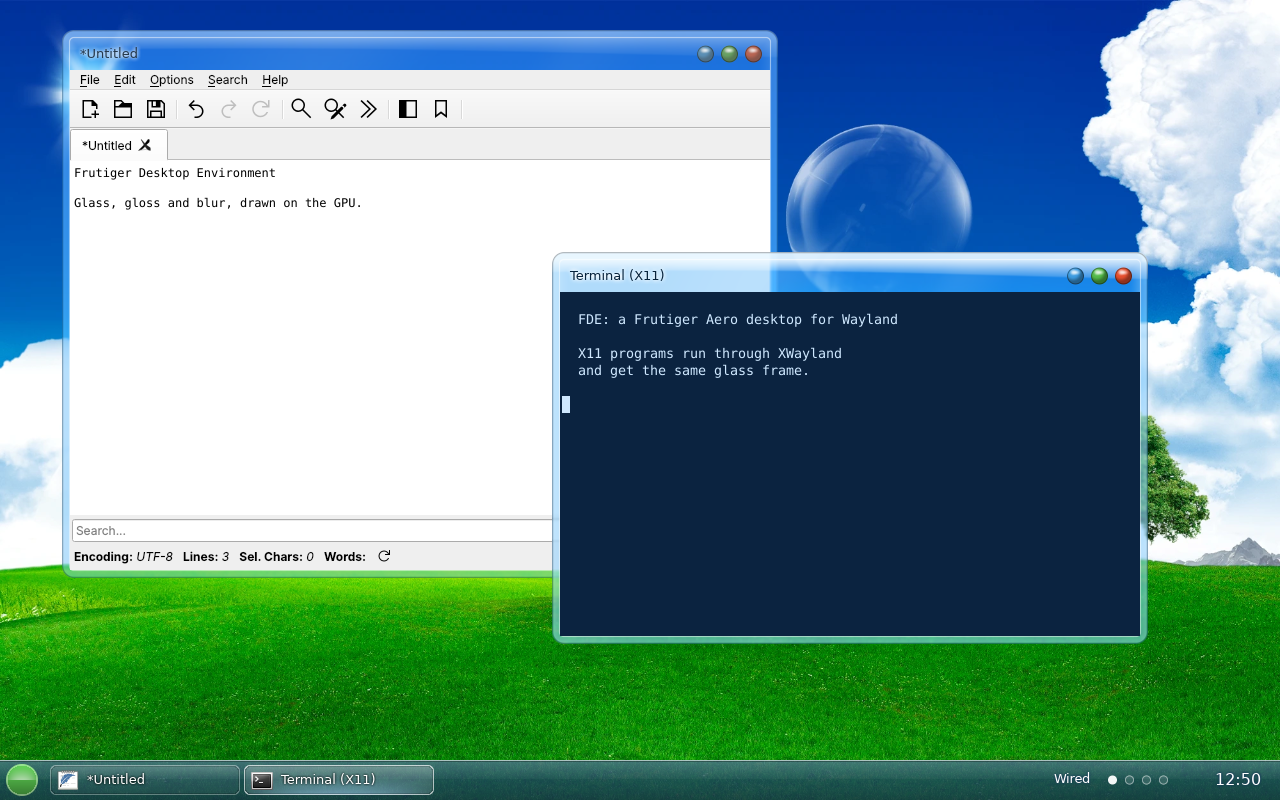
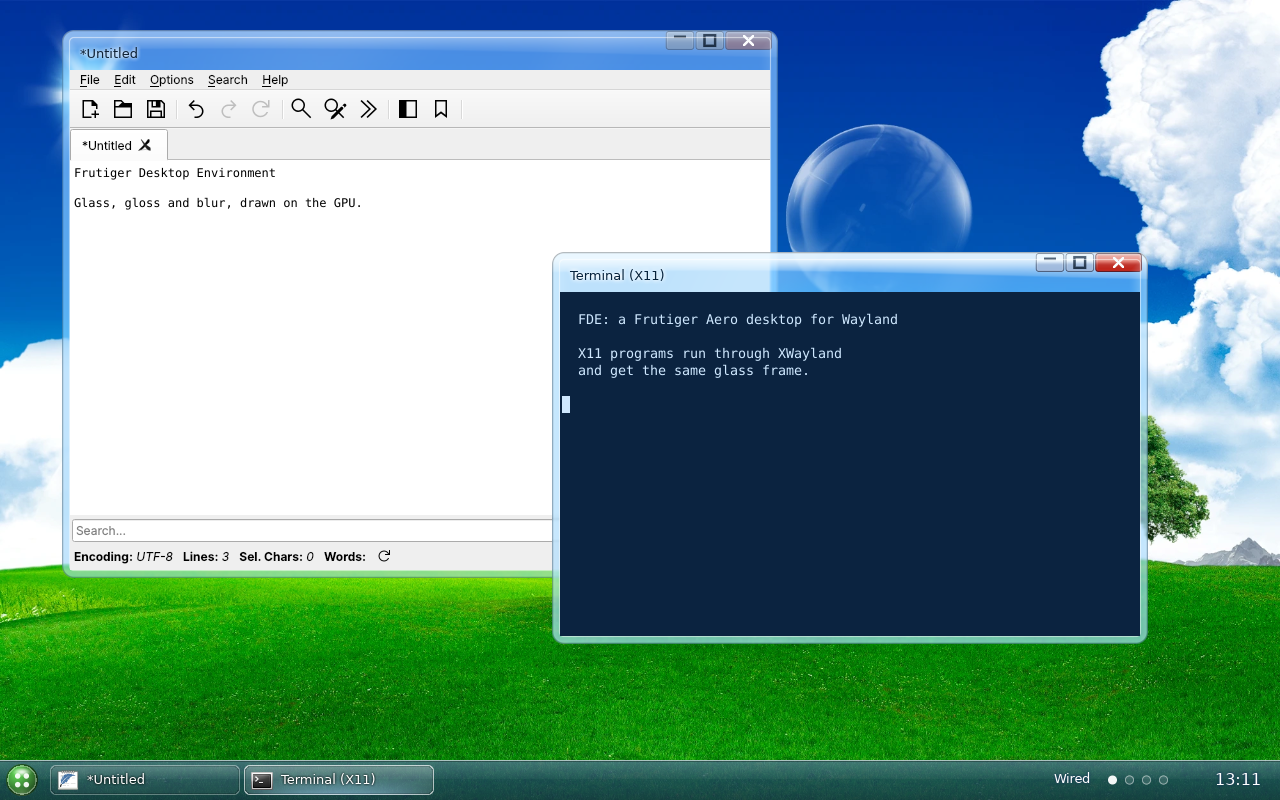
Window buttons are a Windows 7-style glass capsule instead of round orbs; lighter frame glass; a glossy start orb
- Aero theme: minimize / maximize / close as one glass pill hung from the top edge, the close
  button red and wide (the capsule style the theme system already had); the other themes keep
  their own styles
- Frame glass lifted toward white so dark title text reads on any background; unfocused titles darker
- Start orb: a lit sphere with a soft highlight and four small bubbles instead of a flat circle
  with a hard line across it
- Screenshots retaken

Claude-Session: https://claude.ai/code/session_01AksNTTEEpWACMAbBincPJS

diff --git a/src/panel.rs b/src/panel.rs
@@ -119,7 +119,8 @@ pub fn draw(text: &mut TextRenderer, width: i32, height: i32, s: i32, hover: boo
             }
         }
     }
-    // the start orb: a green sphere with a bright highlight
+    // the start orb: a glossy sphere lit from the upper left, a soft light bouncing up from
+    // below, a bright highlight and a dark outline, with four bubbles on it
     let (cx, cy) = orb_center(height / s);
     let (cx, cy) = (cx as f32 * sf, cy as f32 * sf);
     let r = ORB_SIZE as f32 / 2.0 * sf;
@@ -131,23 +132,42 @@ pub fn draw(text: &mut TextRenderer, width: i32, height: i32, s: i32, hover: boo
             if cover <= 0.0 {
                 continue;
             }
-            let ny = (dy / r).clamp(-1.0, 1.0);
-            let shade = 0.5 - 0.35 * ny + if hover { 0.15 } else { 0.0 };
-            let green = [
-                (pal.orb[0] * (0.55 + 0.7 * shade)).min(1.0),
-                (pal.orb[1] * (0.55 + 0.7 * shade)).min(1.0),
-                (pal.orb[2] * (0.55 + 0.7 * shade)).min(1.0),
-            ];
+            let (nx, ny) = (dx / r, dy / r);
+            let lit = (1.0 - ((nx + 0.30).powi(2) + (ny + 0.40).powi(2)).sqrt() * 0.8).clamp(0.0, 1.0);
+            let k = 0.50 + 0.70 * lit + if hover { 0.14 } else { 0.0 };
+            let body = [(pal.orb[0] * k).min(1.0), (pal.orb[1] * k).min(1.0), (pal.orb[2] * k).min(1.0)];
             let i = ((y * width + x) * 4) as usize;
-            blend(&mut buf[i..i + 4], green, cover);
-            // the highlight in the upper half
-            if dy < 0.0 && d < r - sf {
-                let h = (1.0 - (-dy / r)).clamp(0.0, 1.0) * 0.55 * cover;
-                blend(&mut buf[i..i + 4], [1.0, 1.0, 1.0], h * (1.0 - (d / r).powi(2)).max(0.0) * pal.shine.max(0.3));
+            let px = &mut buf[i..i + 4];
+            blend(px, body, cover);
+            // light bouncing up from below
+            let bounce = ((ny - 0.45) / 0.55).clamp(0.0, 1.0) * (1.0 - nx.abs()).max(0.0) * 0.35;
+            blend(px, [0.9, 1.0, 0.8], bounce * cover);
+            // the specular highlight
+            let (hx, hy) = (nx / 0.70, (ny + 0.50) / 0.34);
+            let h = (1.0 - (hx * hx + hy * hy).sqrt()).clamp(0.0, 1.0);
+            blend(px, [1.0, 1.0, 1.0], (h * h * (3.0 - 2.0 * h)) * 0.85 * pal.shine.max(0.4) * cover);
+            // outline: dark outside, a light line just inside
+            if d > r - 1.3 * sf {
+                blend(px, [0.0, 0.08, 0.04], 0.55 * cover);
+            } else if d > r - 2.6 * sf {
+                blend(px, [1.0, 1.0, 1.0], 0.30 * cover);
             }
-            // the rim
-            if d > r - 1.5 * sf {
-                blend(&mut buf[i..i + 4], [1.0, 1.0, 1.0], 0.35 * cover);
+        }
+    }
+    // four small bubbles in a square: the FDE mark
+    for (bx, by) in [(-0.27f32, -0.27f32), (0.27, -0.27), (-0.27, 0.27), (0.27, 0.27)] {
+        let (bcx, bcy, br) = (cx + bx * r, cy + by * r + 0.02 * r, 0.17 * r);
+        for y in (bcy - br - 2.0) as i32..(bcy + br + 2.0) as i32 {
+            for x in (bcx - br - 2.0) as i32..(bcx + br + 2.0) as i32 {
+                if x < 0 || y < 0 || x >= width || y >= height {
+                    continue;
+                }
+                let d = ((x as f32 + 0.5 - bcx).powi(2) + (y as f32 + 0.5 - bcy).powi(2)).sqrt();
+                let cover = (br + 0.5 - d).clamp(0.0, 1.0);
+                if cover > 0.0 {
+                    let i = ((y * width + x) * 4) as usize;
+                    blend(&mut buf[i..i + 4], [1.0, 1.0, 1.0], 0.92 * cover);
+                }
             }
         }
     }

diff --git a/src/theme.rs b/src/theme.rs
@@ -98,7 +98,7 @@ impl Default for Theme {
             shadow: 1.0,
             rim: 1.0,
             title_ink: "#06233d".into(),
-            title_ink_dim: "#465868".into(),
+            title_ink_dim: "#0f2236".into(),
             title_glow: 0.95,
             title_align: "left".into(),
             buttons: Buttons::default(),
@@ -261,7 +261,7 @@ impl Palette {
         let t = c.theme();
         let (accent, _, _, gloss) = c.look();
         let a = crate::config::parse_color(&accent).unwrap_or([0.29, 0.66, 0.93]);
-        let flat = matches!(t.buttons.style.as_str(), "flat" | "capsule");
+        let flat = t.buttons.style == "flat";
         let orb = if flat { mix(a, [1.0; 3], 0.55) } else { crate::config::parse_color(&t.buttons.maximize).unwrap_or([0.33, 0.73, 0.29]) };
         let dark = mix(a, [0.0; 3], 0.62);
         Palette {

diff --git a/src/glass/shaders.rs b/src/glass/shaders.rs
@@ -111,6 +111,10 @@ void main() {
     bool in_client = px.x > border && px.x < size.x - border && px.y > border + titlebar && px.y < size.y - border;
     vec4 tint = in_client ? tint_client : tint_frame;
     vec3 rgb = mix(base, tint.rgb, tint.a);
+    // Aero keeps the frame light whatever is behind it, so dark title text always reads
+    if (!in_client) {
+        rgb = mix(rgb, vec3(0.92, 0.97, 1.0), 0.40 * (1.0 - tint.a));
+    }
 
     // gloss band on the upper half of the title bar, its lower edge sagging to the right
     if (px.y < border + titlebar) {

diff --git a/src/glass/mod.rs b/src/glass/mod.rs
@@ -95,7 +95,7 @@ impl Default for GlassStyle {
             title_center: 0.0,
             radius_bottom: 12.0,
             title_ink: [0.024, 0.137, 0.239],
-            title_ink_dim: [0.275, 0.345, 0.408],
+            title_ink_dim: [0.059, 0.133, 0.212],
             title_glow: 0.95,
             blur_levels: 3,
         }

diff --git a/README.md b/README.md
@@ -91,7 +91,7 @@ Please attach the output of `fde --check` and `~/fde-last.log` to a report if so
 | | |
 |---|---|
 | **Alt+Return** | terminal (`foot`, or `$FDE_TERMINAL`) |
-| **Alt+drag**, title bar | move; borders resize; the three orbs minimize / maximize / close |
+| **Alt+drag**, title bar | move; borders resize; the three buttons minimize / maximize / close |
 | double-click the title bar | maximize or restore (pull a maximized window down to restore it) |
 | **Alt+right-drag** | resize from the nearest corner |
 | right-click the title bar, **Alt+Space** | window menu: minimize, maximize, always on top, move to a workspace, close |
